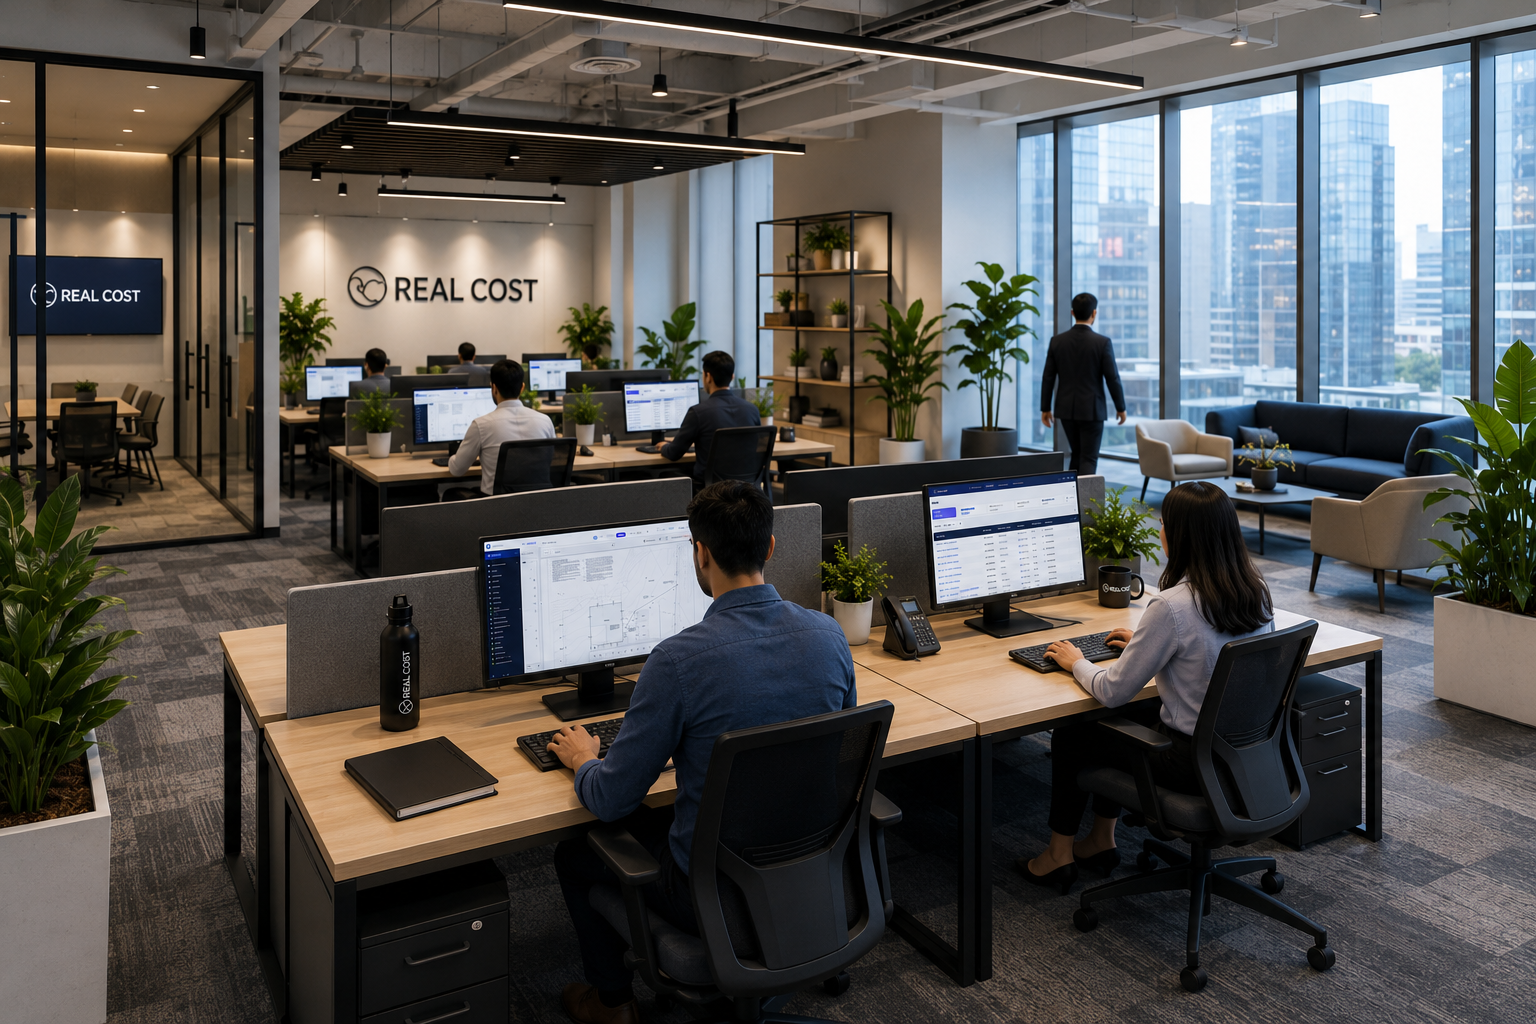
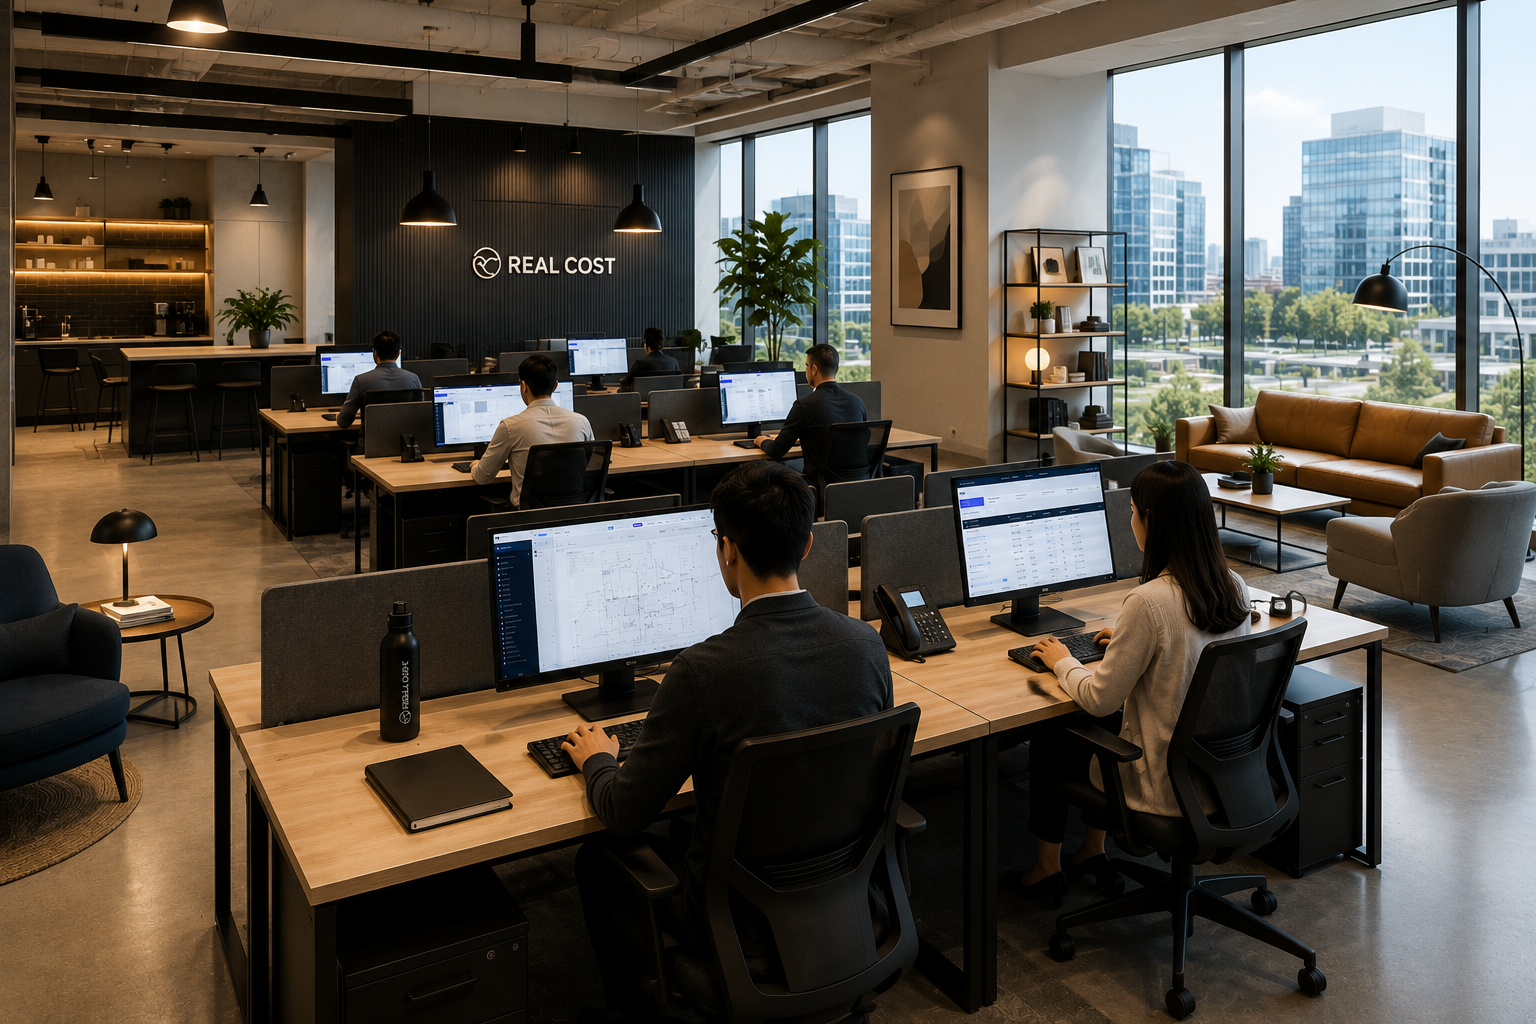
image chanegs

diff --git a/src/components/layout/Footer.jsx b/src/components/layout/Footer.jsx
@@ -27,7 +27,7 @@ const Footer = ({ onNavigate }) => {
         <div>
           <div style={{ display: 'flex', alignItems: 'center', gap: '10px', marginBottom: '16px' }}>
             <img src={process.env.PUBLIC_URL + '/images/brand/logo.png'} width="36" height="36" alt="Real Cost" style={{ borderRadius: '8px', objectFit: 'contain', flexShrink: '0', background: '#fff', padding: '5px', boxShadow: '0 2px 10px rgba(0,0,0,.22)' }} />
-            <div><div style={{ fontSize: '11px', fontWeight: '800', color: '#fff', letterSpacing: '.12em', textTransform: 'uppercase' }}>Real Cost</div><div style={{ fontSize: '9px', fontWeight: '300', color: '#fff', letterSpacing: '.1em', textTransform: 'uppercase' }}>Estimation Platform</div></div>
+            <div><div style={{ fontSize: '11px', fontWeight: '800', color: '#fff', letterSpacing: '.12em', textTransform: 'uppercase' }}>Real Cost <sup style={{ fontSize: '0.90em', fontWeight: '500', color: '#fff' }}>®</sup></div><div style={{ fontSize: '9px', fontWeight: '300', color: '#fff', letterSpacing: '.1em', textTransform: 'uppercase' }}>Estimation Platform</div></div>
           </div>
           <p style={{ fontSize: '13px', color: 'rgba(200,210,240,.38)', lineHeight: '1.82', maxWidth: '240px', fontWeight: '300' }}>Digital estimation platform for trade contractors across Canada. Upload drawings, count symbols, build your bid, send your quote.</p>
           <div style={{ display: 'flex', gap: '10px', marginTop: '18px', flexWrap: 'wrap' }}>
@@ -55,7 +55,7 @@ const Footer = ({ onNavigate }) => {
         </div>
       </RevealGroup>
       <Reveal as="div" className="footer-bottom" style={{ display: 'flex', alignItems: 'center', justifyContent: 'space-between', padding: '18px 80px', borderTop: '1px solid rgba(96,165,250,.12)', maxWidth: '1440px', margin: '0 auto', flexWrap: 'wrap', gap: '16px' }}>
-        <div style={{ fontSize: '12px', color: 'rgba(200,210,240,.28)', fontWeight: '300' }}>© 2026 Real Cost Estimating Inc. All rights reserved. 1200 Bloor Street West, Toronto, Canada.</div>
+        <div style={{ fontSize: '12px', color: 'rgba(200,210,240,.28)', fontWeight: '300' }}>© 2023 Real Cost Estimating Inc. All rights reserved.</div>
         <div style={{ display: 'flex', gap: '28px' }}>
           <a href={`${APP_URL}termsandconditions`} target="_blank" rel="noopener noreferrer" style={{ fontSize: '12px', color: 'rgba(200,210,240,.28)', textDecoration: 'none' }}>Privacy policy & Terms of use</a>
         </div>

diff --git a/src/components/layout/Nav.jsx b/src/components/layout/Nav.jsx
@@ -51,7 +51,7 @@ const Nav = ({ currentPage, onNavigate, lightHero }) => {
             style={{ borderRadius: '8px', objectFit: 'contain', flexShrink: '0', background: '#fff', padding: '5px', boxShadow: '0 2px 10px rgba(0,0,0,.22)' }}
           />
           <div className="nav-brand-wordmark">
-            <span>REAL COST</span>
+            <span>REAL COST <sup style={{ fontSize: '0.78em', fontWeight: '700', color: '#000' }}>®</sup></span>
             <span>Estimation Platform</span>
           </div>
         </div>

diff --git a/src/config/constants.js b/src/config/constants.js
@@ -1,1 +1,1 @@
-export const APP_NAME = "Real Cost App";
+export const APP_NAME = "Real Cost® App";

diff --git a/src/pages/FAQ.jsx b/src/pages/FAQ.jsx
@@ -117,7 +117,7 @@ const FAQ = ({ onNavigate }) => {
       {/* ── Hero ── */}
       <section className="page-hero">
         <div className="page-hero-accent" />
-        <div className="page-hero-bg" style={{ backgroundImage: `url(${process.env.PUBLIC_URL + '/images/about/our_bg.png'})` }} />
+        <div className="page-hero-bg" style={{ backgroundImage: `url(${process.env.PUBLIC_URL + '/images/faq/faq.png'})` }} />
         <div style={{ position: 'absolute', inset: 0, zIndex: 0, background: 'linear-gradient(105deg,rgba(10,20,40,.52) 0%,rgba(10,20,40,.32) 34%,transparent 62%)' }} />
         <div className="hero-glow" />
         <div className="cxl" style={{ textAlign: 'left' }}>